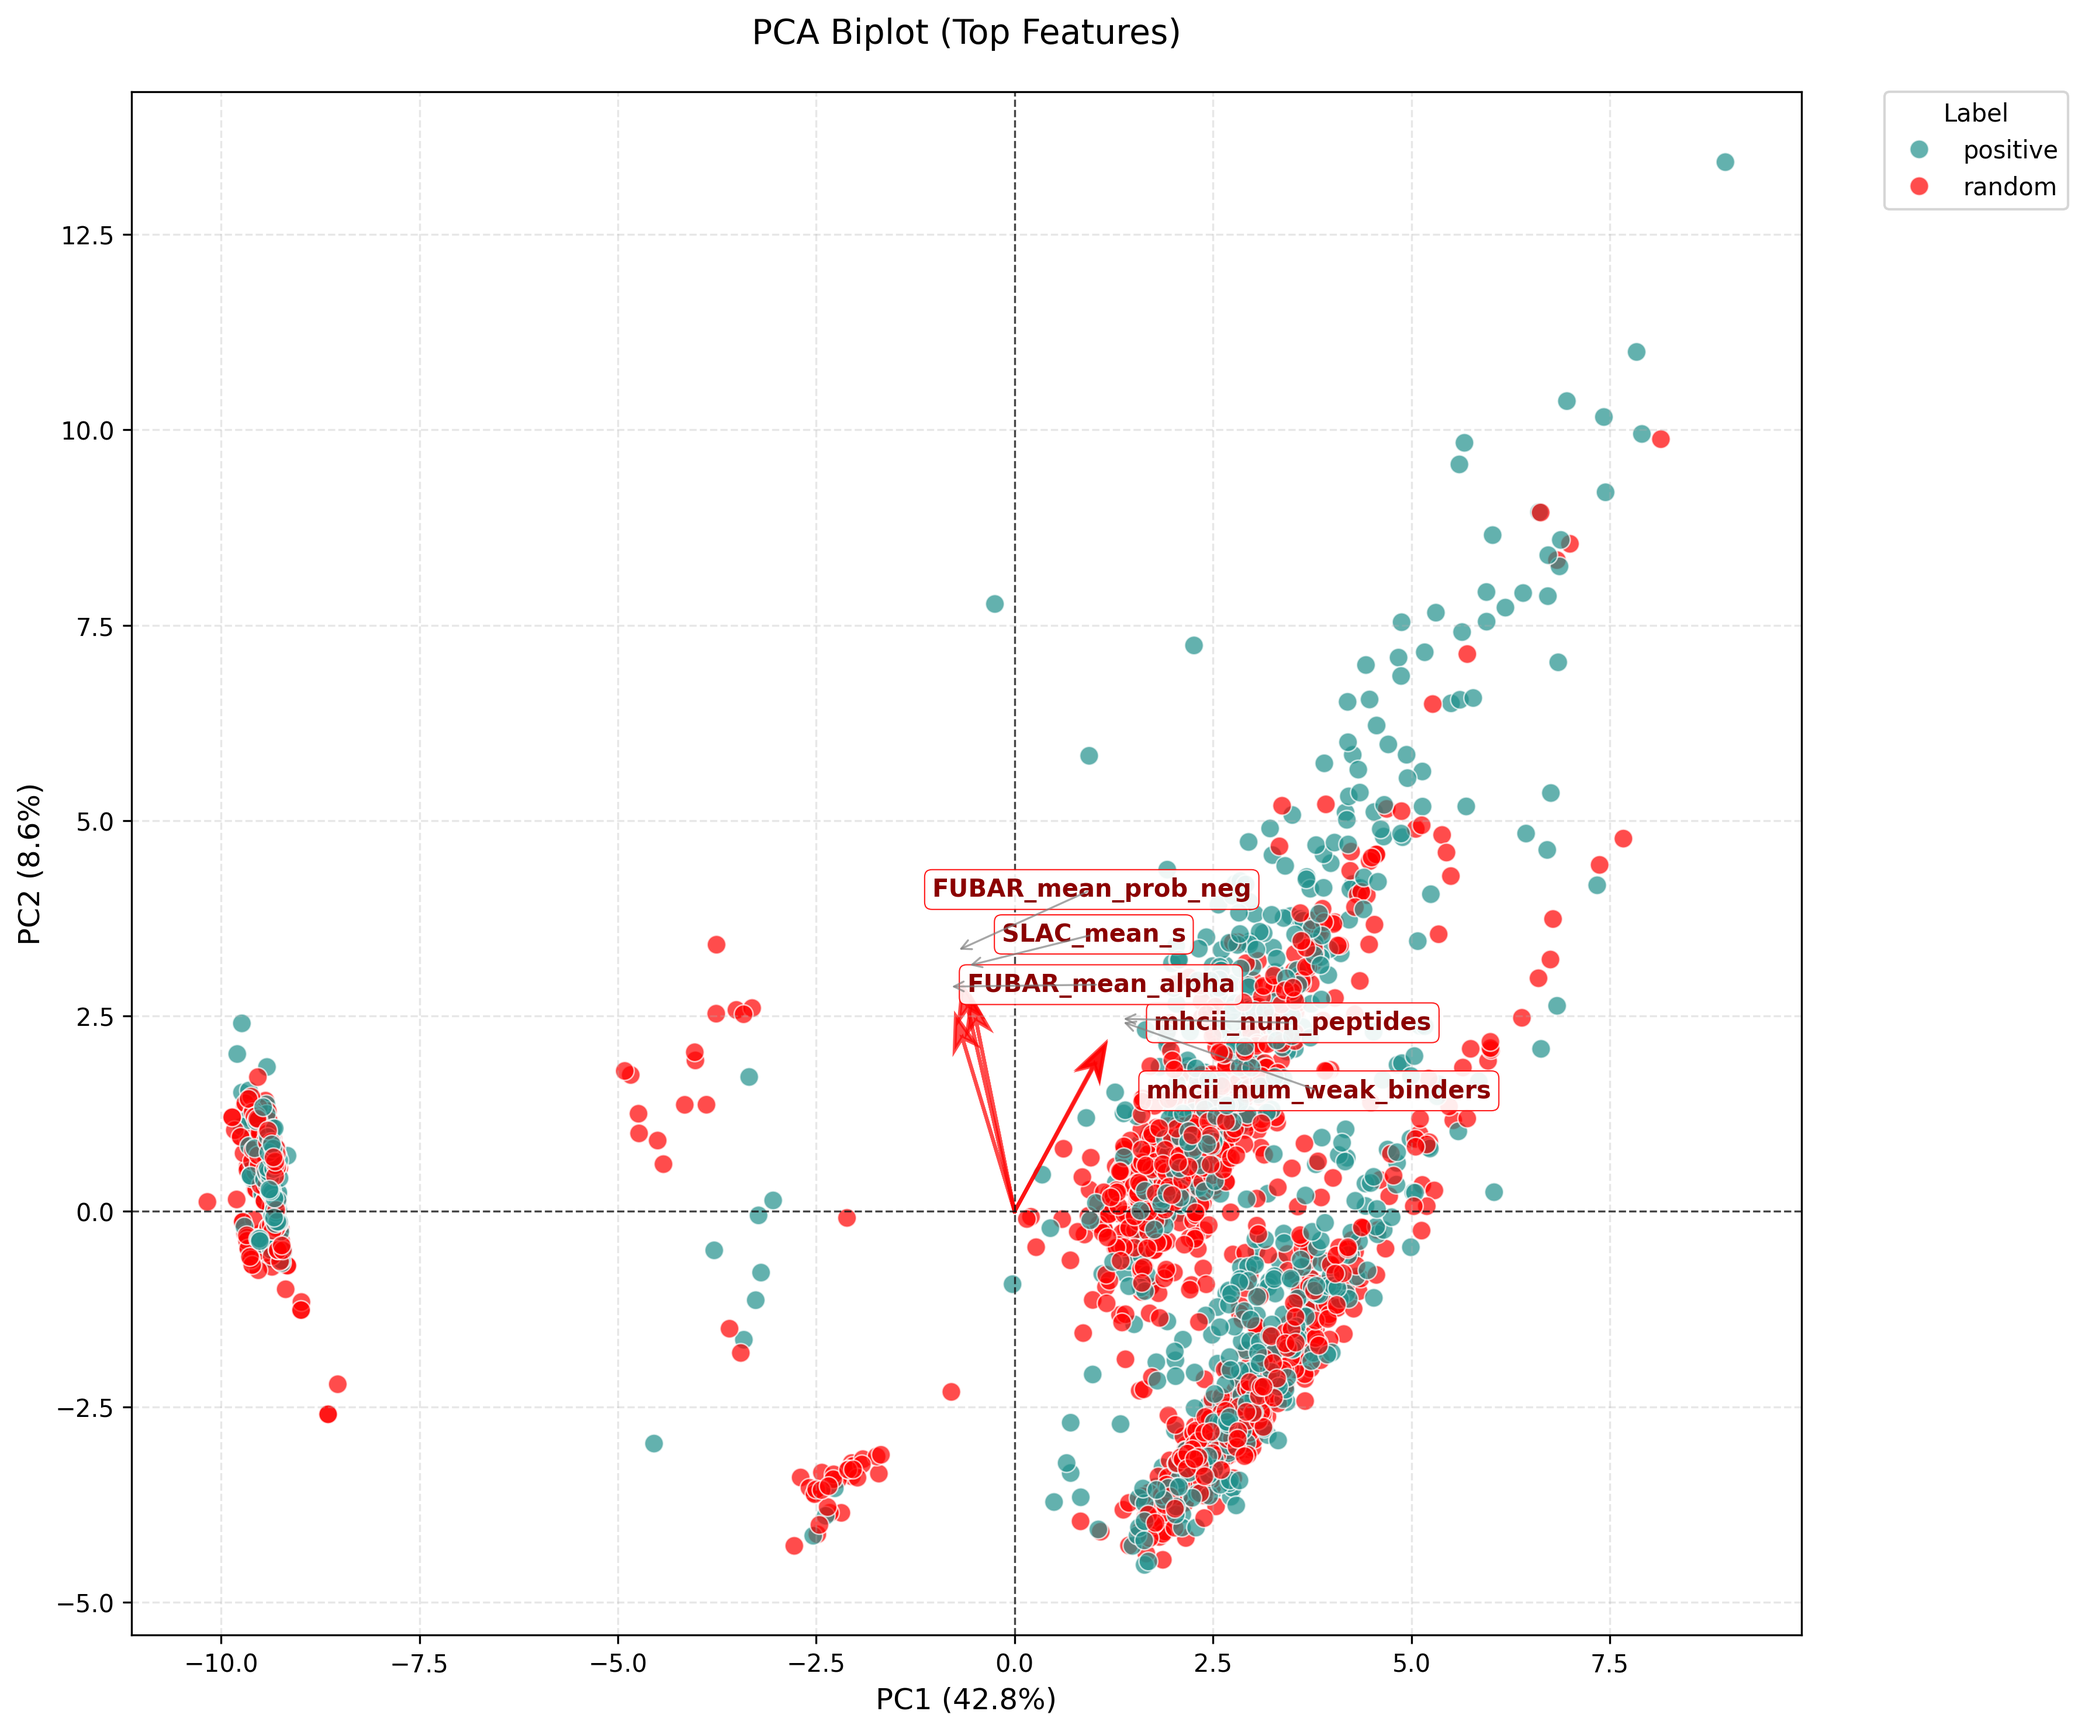
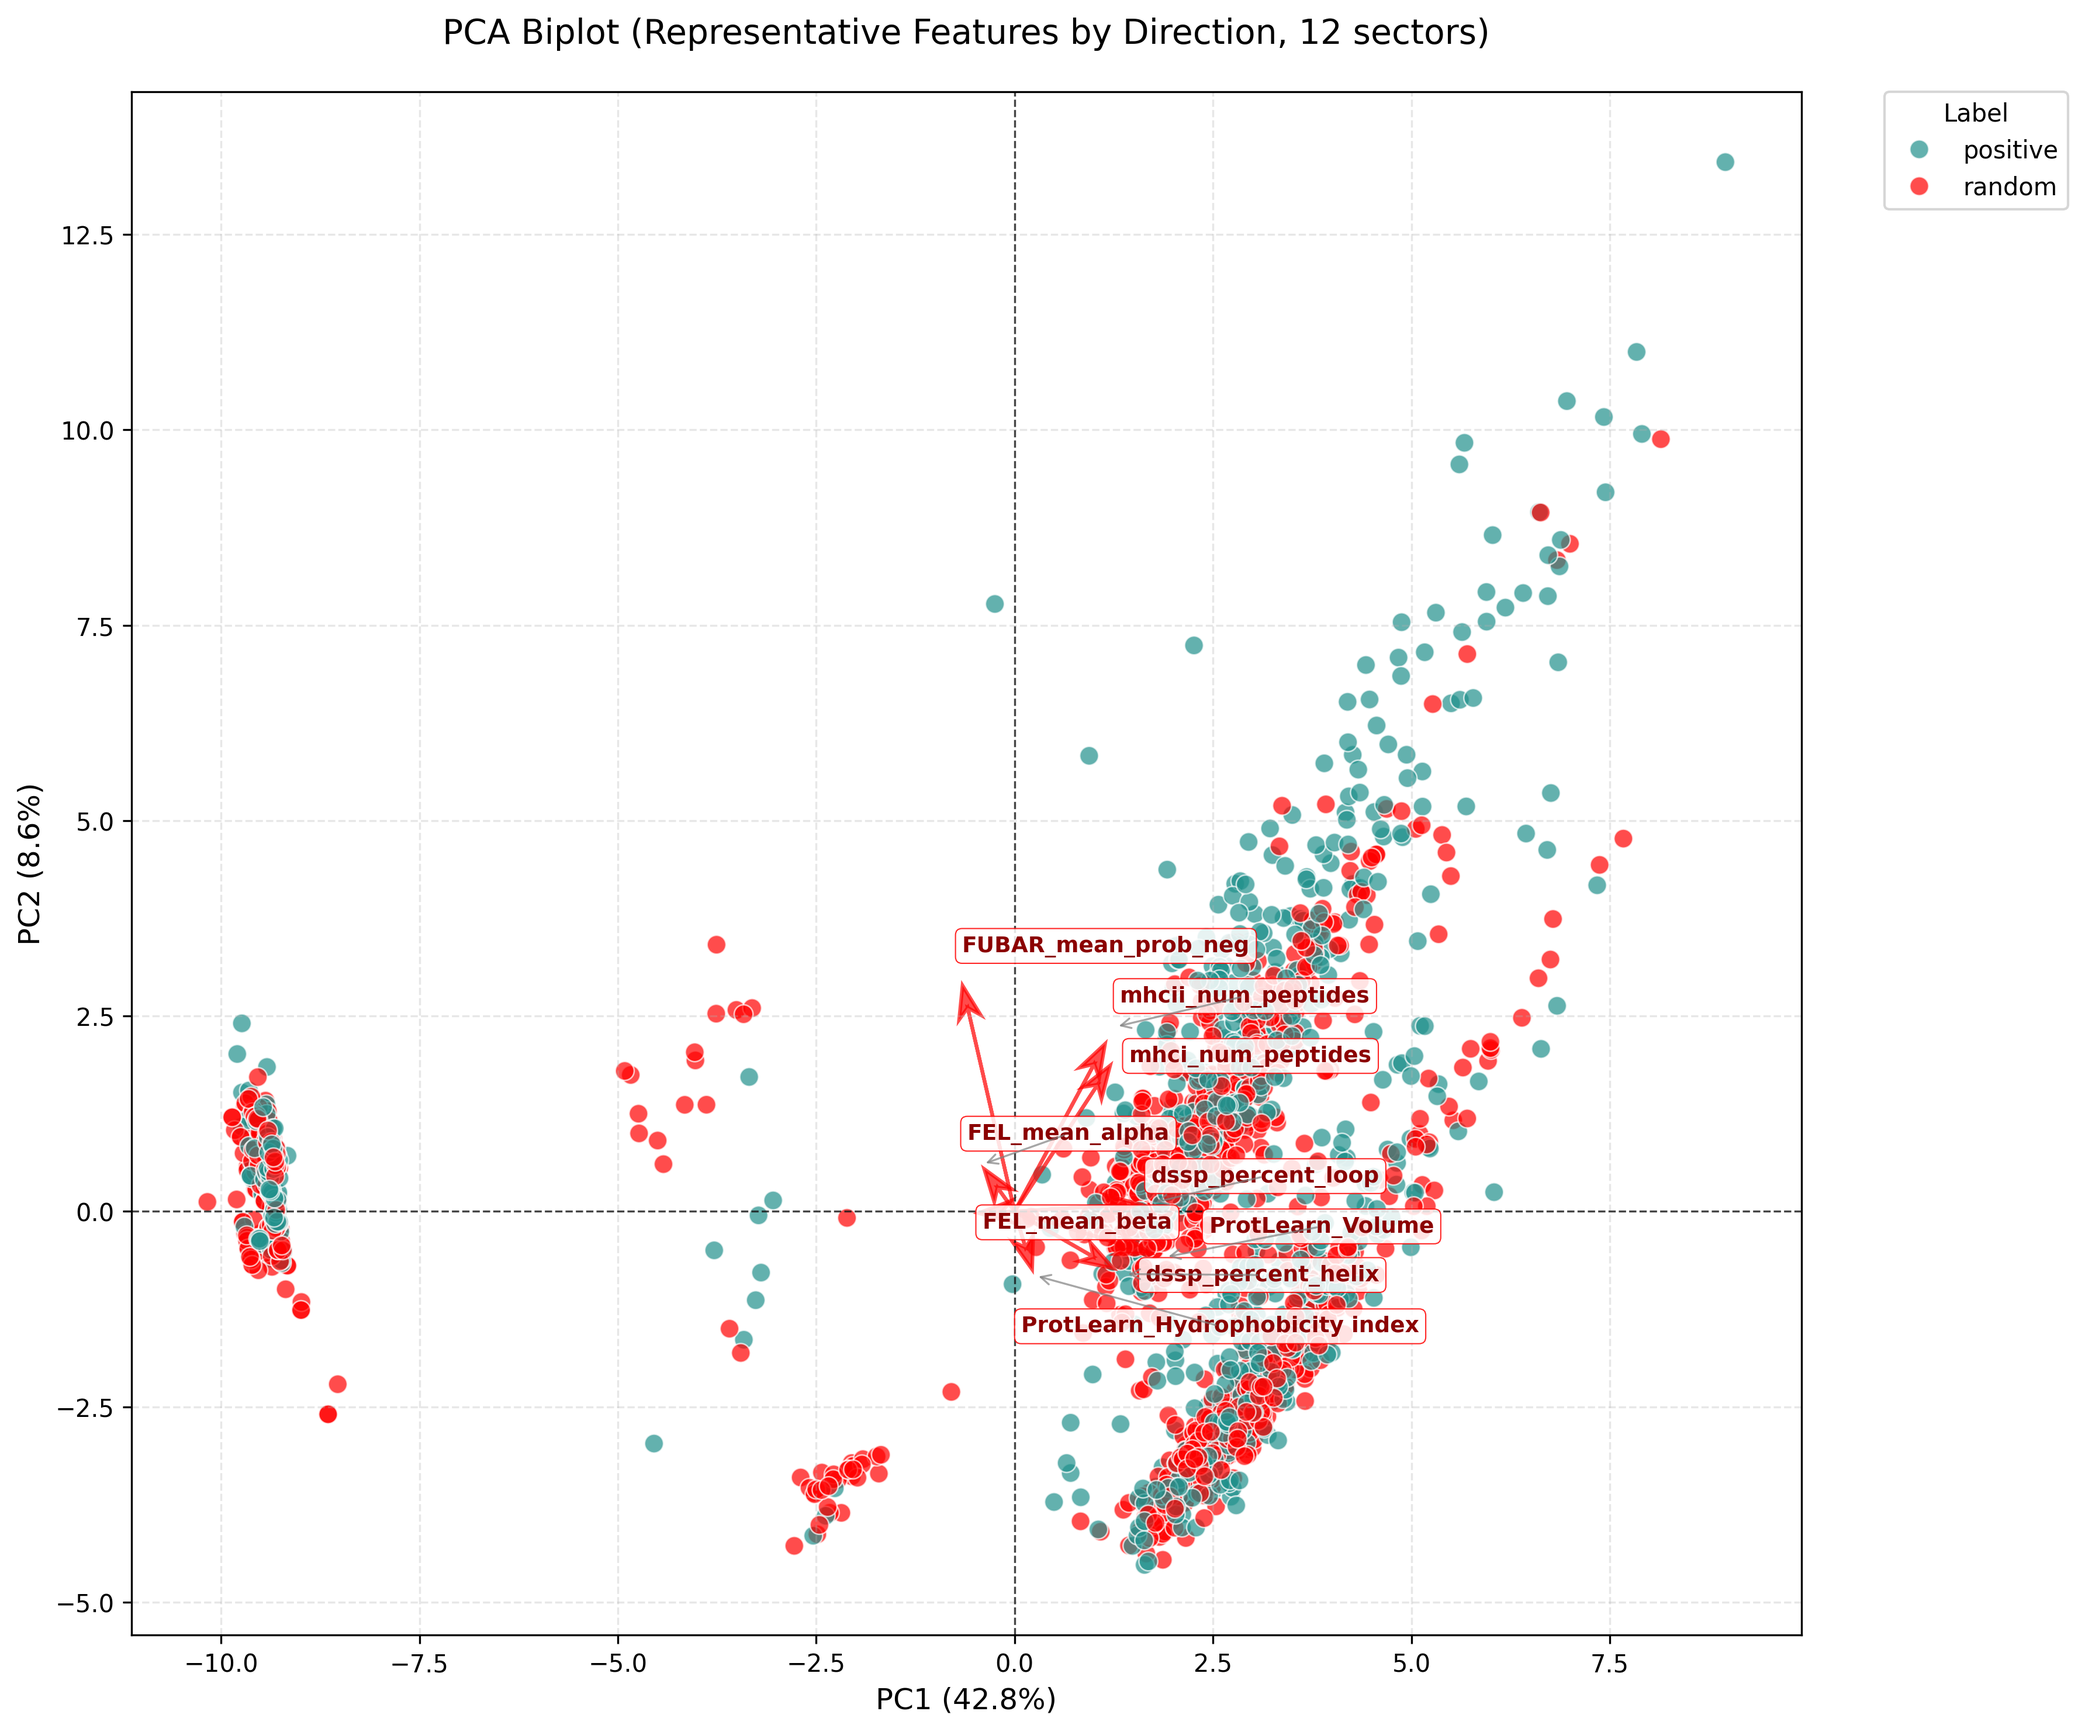
adding updated pca labels

Changed region(s): [[0.4357, 0.4968, 0.7157, 0.7762], [0.2178, 0.0, 0.7157, 0.031]]

diff --git a/bin/pca_analysis.py b/bin/pca_analysis.py
@@ -320,14 +320,36 @@ def plot_scree(ipca, output_dir: str):
     }).to_csv(os.path.join(output_dir, "explained_variance.csv"), index=False)
 
 
-def plot_pca_biplot(pca_df, ipca, feature_enc, output_dir: str, top_n=5, scale=2.5):
-    """PCA biplot with samples and top feature loadings using manual label placement."""
-    plt.figure(figsize=(12, 10))
+
+def plot_pca_biplot(pca_df, ipca, feature_enc, output_dir: str, scale=2.5, n_directions=12):
+    """
+    PCA biplot with samples and representative feature vectors.
+    Instead of labeling all features, we choose one representative
+    per direction (with the largest vector length).
     
-    # Create a custom palette where 'random' is red and others use viridis
+    Also exports a CSV of all feature loadings.
+    
+    Parameters
+    ----------
+    pca_df : pd.DataFrame
+        DataFrame containing PC1, PC2, and sample labels.
+    ipca : fitted PCA object (e.g., sklearn.decomposition.PCA)
+    feature_enc : encoder with inverse_transform to retrieve feature names
+    output_dir : str
+        Directory to save plot and CSV
+    scale : float
+        Base scaling factor for arrows
+    n_directions : int
+        Number of angular sectors to partition the unit circle.
+        One representative feature is selected from each sector.
+    """
+    plt.figure(figsize=(12, 10))
+
+    # =========================
+    # Color palette for samples
+    # =========================
     unique_labels = pca_df['label'].unique()
     if 'random' in unique_labels:
-        # Create custom palette: random=red, others=viridis
         n_other_labels = len(unique_labels) - 1
         other_colors = sns.color_palette("viridis", n_other_labels)
         
@@ -341,49 +363,95 @@ def plot_pca_biplot(pca_df, ipca, feature_enc, output_dir: str, top_n=5, scale=2
                 other_idx += 1
     else:
         custom_palette = "viridis"
+
+    scatter = sns.scatterplot(
+        data=pca_df, x="PC1", y="PC2", hue="label",
+        s=60, alpha=0.7, palette=custom_palette
+    )
     
-    # Create scatter plot with samples using custom palette
-    scatter = sns.scatterplot(data=pca_df, x="PC1", y="PC2", hue="label", 
-                             s=60, alpha=0.7, palette=custom_palette)
-    
-    # Store legend handles and labels
     handles, labels = scatter.get_legend_handles_labels()
-    
-    # Loadings
+
+    # =========================
+    # Feature loadings
+    # =========================
     loadings = ipca.components_[:2].T
     feature_names = feature_enc.inverse_transform(np.arange(loadings.shape[0]))
 
-    # Top features by vector length
+    # Compute direction (angle) and distance (norm) for each feature
     norms = np.linalg.norm(loadings, axis=1)
-    top_idx = np.argsort(norms)[-top_n:]
-    
-    # Calculate dynamic scaling based on data range
+    angles = np.arctan2(loadings[:, 1], loadings[:, 0])  # radians [-pi, pi]
+
+    # Normalize angles to [0, 2π)
+    angles = (angles + 2 * np.pi) % (2 * np.pi)
+
+    # DataFrame for all features
+    loadings_df = pd.DataFrame({
+        "feature": feature_names,
+        "PC1_loading": loadings[:, 0],
+        "PC2_loading": loadings[:, 1],
+        "angle_rad": angles,
+        "distance_from_origin": norms
+    })
+
+    # =========================
+    # Select representatives by direction
+    # =========================
+    sector_edges = np.linspace(0, 2 * np.pi, n_directions + 1)
+    representatives = []
+
+    for i in range(n_directions):
+        start, end = sector_edges[i], sector_edges[i + 1]
+        in_sector = loadings_df[(loadings_df['angle_rad'] >= start) &
+                                (loadings_df['angle_rad'] < end)]
+        if not in_sector.empty:
+            # pick feature with max distance in this direction
+            rep = in_sector.loc[in_sector['distance_from_origin'].idxmax()]
+            representatives.append(rep)
+
+    rep_df = pd.DataFrame(representatives)
+
+    # =========================
+    # Dynamic scaling
+    # =========================
     x_range = pca_df["PC1"].max() - pca_df["PC1"].min()
     y_range = pca_df["PC2"].max() - pca_df["PC2"].min()
     avg_range = (x_range + y_range) / 2
-    dynamic_scale = scale * (avg_range / 5)  # Adjust scale based on data range
+    dynamic_scale = scale * (avg_range / 5)
 
     texts = []
-    
-    # Plot feature vectors and labels
-    for i in top_idx:
-        x, y = loadings[i, 0] * dynamic_scale, loadings[i, 1] * dynamic_scale
+
+    # =========================
+    # Plot representative vectors
+    # =========================
+    for _, row in rep_df.iterrows():
+        x, y = row["PC1_loading"] * dynamic_scale, row["PC2_loading"] * dynamic_scale
         
-        # Draw arrow using plt.arrow instead of FancyArrowPatch
-        plt.arrow(0, 0, x, y, color='red', alpha=0.7, 
-                  head_width=0.03*dynamic_scale, 
-                  length_includes_head=True, 
-                  linewidth=1.5,
-                  overhang=0.3)  # Added overhang to improve arrow appearance
+        # Draw arrow
+        plt.arrow(
+            0, 0, x, y, color='red', alpha=0.7,
+            head_width=0.03 * dynamic_scale,
+            length_includes_head=True,
+            linewidth=1.5,
+            overhang=0.3
+        )
         
-        # Add text label with initial positioning
-        text = plt.text(x * 1.15, y * 1.15, feature_names[i], fontsize=10, 
-                        color="darkred", weight='bold',
-                        bbox=dict(boxstyle="round,pad=0.3", facecolor="white", 
-                                 alpha=0.9, edgecolor="red", linewidth=0.5))
+        # Add text label
+        text = plt.text(
+            x * 1.1, y * 1.1, row["feature"],
+            fontsize=9, color="darkred", weight='bold',
+            bbox=dict(
+                boxstyle="round,pad=0.3",
+                facecolor="white",
+                alpha=0.85,
+                edgecolor="red",
+                linewidth=0.5
+            )
+        )
         texts.append(text)
 
-    # Adjust labels if adjust_text is available
+    # =========================
+    # Adjust labels
+    # =========================
     try:
         adjust_text(
             texts,
@@ -392,46 +460,52 @@ def plot_pca_biplot(pca_df, ipca, feature_enc, output_dir: str, top_n=5, scale=2
             expand_text=(1.3, 1.6),
             force_points=(0.5, 0.8),
             force_text=(0.8, 1.2),
-            va='center',
-            ha='center',
+            va='center', ha='center',
             only_move={'points':'xy', 'text':'xy', 'objects':'xy'},
             avoid_points=True,
             avoid_text=True,
-            lim=100  # Increase iteration limit for better convergence
+            lim=150
         )
     except ImportError:
-        # Fallback: manual label placement if adjust_text is not available
-        print("adjustText package not available, using manual label placement")
-        for text in texts:
-            # Simple manual adjustment to reduce overlaps
-            pos = text.get_position()
-            text.set_position((pos[0] + 0.02, pos[1] + 0.02))
+        print("adjustText not available, using basic label placement")
 
-    # Add center lines
+    # =========================
+    # Axes and formatting
+    # =========================
     plt.axhline(0, color='black', linewidth=0.8, linestyle='--', alpha=0.7)
     plt.axvline(0, color='black', linewidth=0.8, linestyle='--', alpha=0.7)
-    
-    # Add labels and title
+
     plt.xlabel(f"PC1 ({ipca.explained_variance_ratio_[0]*100:.1f}%)", fontsize=12)
     plt.ylabel(f"PC2 ({ipca.explained_variance_ratio_[1]*100:.1f}%)", fontsize=12)
-    plt.title("PCA Biplot (Top Features)", fontsize=14, pad=20)
-    
-    # Add grid for better readability
+    plt.title(f"PCA Biplot (Representative Features by Direction, {n_directions} sectors)", fontsize=14, pad=20)
+
     plt.grid(True, linestyle='--', alpha=0.3)
-    
-    # Add legend using the stored handles and labels
-    plt.legend(handles=handles, labels=labels, 
-               title="Label",
-               loc='upper left',
-               bbox_to_anchor=(1.05, 1),
-               borderaxespad=0.)
-    
+
+    plt.legend(
+        handles=handles, labels=labels,
+        title="Label",
+        loc='upper left',
+        bbox_to_anchor=(1.05, 1),
+        borderaxespad=0.
+    )
+
     plt.tight_layout()
-    
-    # Ensure output directory exists
+
+    # =========================
+    # Save outputs
+    # =========================
     os.makedirs(output_dir, exist_ok=True)
     plt.savefig(os.path.join(output_dir, "pca_biplot.png"), dpi=300, bbox_inches='tight')
     plt.close()
+
+    # Save all loadings and representatives
+    loadings_df.to_csv(os.path.join(output_dir, "feature_loadings.csv"), index=False)
+    rep_df.to_csv(os.path.join(output_dir, "representative_features.csv"), index=False)
+
+    print(f"Saved PCA biplot to {os.path.join(output_dir, 'pca_biplot.png')}")
+    print(f"Saved full loadings to {os.path.join(output_dir, 'feature_loadings.csv')}")
+    print(f"Saved representative features to {os.path.join(output_dir, 'representative_features.csv')}")
+
 
 
 def plot_loading_scatter(ipca, feature_enc, output_dir: str, top_n=50):
